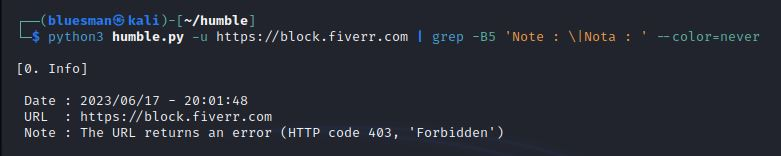
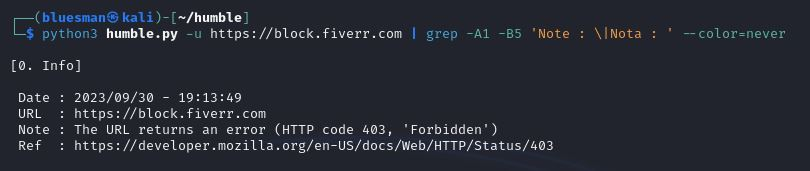
Feature: Improvement in case of 4xx errors
Now both the exact code and references are displayed

diff --git a/humble.py b/humble.py
@@ -64,6 +64,7 @@ IP_PTRN = (r'^(?:\d{1,3}\.){3}\d{1,3}$|'
 # https://data.iana.org/TLD/tlds-alpha-by-domain.txt
 NON_RU_TLDS = ['CYMRU', 'GURU', 'PRU']
 PRG_N = 'humble (HTTP Headers Analyzer) - '
+REF_E = 'Ref  :'
 REF_S = 'Ref: '
 SEC_S = "https://"
 URL_S = ' URL  : '
@@ -71,7 +72,7 @@ PAT_LN = r'\[(.*?)\]'
 
 export_date = datetime.now().strftime("%Y%m%d")
 now = datetime.now().strftime("%Y/%m/%d - %H:%M:%S")
-version = datetime.strptime('2023-09-29', '%Y-%m-%d').date()
+version = datetime.strptime('2023-09-30', '%Y-%m-%d').date()
 
 
 class PDF(FPDF):
@@ -120,11 +121,17 @@ def pdf_sections():
 
 
 def pdf_links(pdfstring):
-    links = {URL_S: URL, REF_S: x.partition(REF_S)[2].strip(),
+    links = {URL_S: URL, REF_E: x.partition(REF_E)[2].strip(),
+             REF_S: x.partition(REF_S)[2].strip(),
              CAN_S: x.partition(': ')[2].strip()}
     link_h = links.get(pdfstring)
-    if pdfstring in (URL_S, REF_S):
-        prefix = ' Ref: ' if pdfstring == REF_S else pdfstring
+    if pdfstring in (URL_S, REF_E, REF_S):
+        if pdfstring == REF_E:
+            prefix = ' Ref  : '
+        elif pdfstring == REF_S:
+            prefix = ' Ref: '
+        else:
+            prefix = pdfstring
         pdf.write(h=3, txt=prefix)
     else:
         pdf.write(h=3, txt=x[:x.index(": ")+2])
@@ -608,7 +615,8 @@ def print_summary():
     print(f' URL  : {URL}')
     if status_code in CLI_E:
         id_mode = f"[http_{status_code}]"
-        print(f"{get_detail(id_mode, replace=True)}")
+        if detail := print_detail(id_mode, num_lines=2):
+            print(detail)
 
 
 def print_headers():
@@ -737,8 +745,6 @@ def print_ru_message():
 
 
 def handle_http_error(err_http):
-    if err_http.response.status_code == 407:
-        detail_exceptions('[e_proxy]', err_http)
     if str(err_http.response.status_code).startswith('5'):
         if err_http.response.status_code in SER_E:
             desc_error = f'[server_{str(err_http.response.status_code)}]'
@@ -1485,7 +1491,7 @@ elif args.output == 'pdf':
     # PDF Body
     pdf.set_font("Courier", size=9)
     f = open(name_e, "r", encoding='utf8')
-    links_strings = (URL_S, REF_S, CAN_S)
+    links_strings = (URL_S, REF_E, REF_S, CAN_S)
 
     for x in f:
         if '[' in x:
@@ -1547,6 +1553,9 @@ text-decoration: none;}} .ok {{color: green;}} .header {{color: #660033;}} \
                 output.write(f"{sub_d['span_ko']}{ln}{sub_d['span_f']}")
             elif ' Ref: ' in ln:
                 output.write(f"{ln[:6]}{sub_d['ahref_s']}{ln[6:]}\
+                             {sub_d['close_t']}{ln[6:]}{sub_d['ahref_f']}")
+            elif ' Ref  : ' in ln:
+                output.write(f"{ln[:6]}{sub_d['ahref_s']}{ln[8:]}\
                              {sub_d['close_t']}{ln[6:]}{sub_d['ahref_f']}")
             elif 'caniuse' in ln:
                 ln = f"{sub_d['span_h']}{ln[1:ln.index(': ')]}: \

diff --git a/README.md b/README.md
@@ -4,7 +4,7 @@
 <a target="_blank" href="https://www.python.org/downloads/" title="Minimum Python version required to run this tool"><img src="https://img.shields.io/badge/Python-%3E%3D3.9-blue?labelColor=343b41"></a>
 <a target="_blank" href="LICENSE" title="License of this tool"><img src="https://img.shields.io/badge/License-MIT-blue.svg?labelColor=343b41"></a>
 <a target="_blank" href="https://github.com/rfc-st/humble/releases" title="Latest release of this tool"><img src="https://img.shields.io/github/v/release/rfc-st/humble?display_name=release&label=Latest%20release&labelColor=343b41"></a>
-<a target="_blank" href="https://github.com/rfc-st/humble/commits/master" title="Latest commit of this tool"><img src="https://img.shields.io/badge/Latest_Commit-2023--09--29-blue.svg?labelColor=343b41"></a>
+<a target="_blank" href="https://github.com/rfc-st/humble/commits/master" title="Latest commit of this tool"><img src="https://img.shields.io/badge/Latest_Commit-2023--09--30-blue.svg?labelColor=343b41"></a>
 <a target="_blank" href="https://github.com/rfc-st/humble/actions?query=workflow%3ACodeQL" title="Results of the last analysis of this tool with CodeQL"><img src="https://github.com/rfc-st/humble/workflows/CodeQL/badge.svg"></a>
 <a target="_blank" href="https://owasp.org/www-project-secure-headers/#div-technical" title="Tool accepted as a technical resource for OWASP"><img src="https://img.shields.io/badge/OWASP-Resource-blue?labelColor=343b41"></a>
 <a target="_blank" href="https://www.kali.org/tools/humble/" title="Tool accepted in Kali"><img src="https://img.shields.io/badge/Kali%20Linux-Tool-blue?labelColor=343b41"></a>
@@ -210,7 +210,7 @@ $ python3 humble.py -u https://www.spacex.com | sed '/3. /,/4. /!d' | sed '$d' |
 
 ### Linux: Check for HTTP client errors (4XX)
 ```
-$ python3 humble.py -u https://block.fiverr.com | grep -B5 'Note : \|Nota : ' --color=never 
+$ python3 humble.py -u https://block.fiverr.com | grep -A1 -B5 'Note : \|Nota : ' --color=never
 ```
 <img src="https://github.com/rfc-st/humble/blob/master/screenshots/humble_adv_linux_4.jpg" alt="Check for HTTP client errors (4XX) (Linux)">
 
